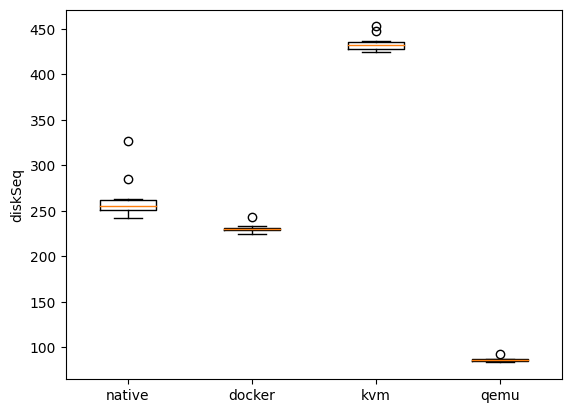
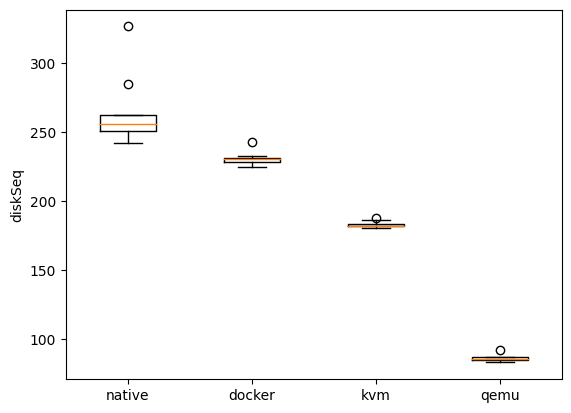
assigment03: rerun without caching

diff --git a/assigment03/moritz/README.md b/assigment03/moritz/README.md
@@ -126,9 +126,9 @@ VCPUS=$(nproc)
 MEMORY=4096
 
 # Create instance
-virt-install --connect qemu:///system --virt-type kvm --name instance1 --ram $MEMORY --vcpus=$VCPUS --os-type linux --os-variant ubuntu18.04 --disk path=/var/lib/libvirt/images/instance1/instance1.qcow2,format=qcow2 --disk /var/lib/libvirt/images/instance1/instance1-cidata.iso,device=cdrom --import --network network=default --noautoconsole
+virt-install --connect qemu:///system --virt-type kvm --name instance1 --ram $MEMORY --vcpus=$VCPUS --os-type linux --os-variant ubuntu18.04 --disk path=/var/lib/libvirt/images/instance1/instance1.qcow2,format=qcow2,cache=none --disk /var/lib/libvirt/images/instance1/instance1-cidata.iso,device=cdrom --import --network network=default --noautoconsole
 
-virt-install --connect qemu:///system --virt-type qemu --name instance2 --ram $MEMORY --vcpus=$VCPUS --os-type linux --os-variant ubuntu18.04 --disk path=/var/lib/libvirt/images/instance2/instance2.qcow2,format=qcow2 --disk /var/lib/libvirt/images/instance2/instance2-cidata.iso,device=cdrom --import --network network=default --noautoconsole
+virt-install --connect qemu:///system --virt-type qemu --name instance2 --ram $MEMORY --vcpus=$VCPUS --os-type linux --os-variant ubuntu18.04 --disk path=/var/lib/libvirt/images/instance2/instance2.qcow2,format=qcow2,cache=none --disk /var/lib/libvirt/images/instance2/instance2-cidata.iso,device=cdrom --import --network network=default --noautoconsole
 
 virsh --connect qemu:///system list
 virsh --connect qemu:///system domifaddr instance1
